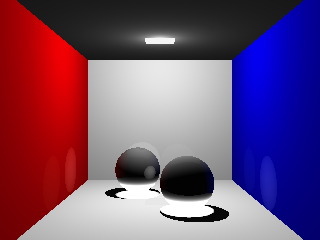
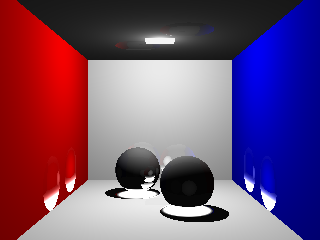
Working on GI

diff --git a/VCG_Raytracer/src/raytracer/Intersection.java b/VCG_Raytracer/src/raytracer/Intersection.java
@@ -58,7 +58,9 @@ public class Intersection {
 
         Matrix4x4 transfMatrix = calculateRandomTransformationMatrix(randomEndDirection, mNormal );
 
-        Vec4 transformedRandomEndDirection = transfMatrix.multVec3( new Vec4(randomEndDirection.x, randomEndDirection.y, randomEndDirection.z, 0f)).normalize();
+        Vec4 transformedRandomEndDirection = transfMatrix.multVec3( new Vec4(randomEndDirection.x, randomEndDirection.y, randomEndDirection.z, 0f));
+
+        transformedRandomEndDirection = transformedRandomEndDirection.normalize();
 
         Ray outRay = new Ray(startPoint, new Vec3(transformedRandomEndDirection.x, transformedRandomEndDirection.y, transformedRandomEndDirection.z), Float.MAX_VALUE);
 

diff --git a/VCG_Raytracer/src/Main.java b/VCG_Raytracer/src/Main.java
@@ -86,7 +86,7 @@ public class Main {
     static int RECURSIONS = 8;
     static int ANTI_ALIASING = Raytracer.ANTI_ALIASING_NONE; //Raytracer.ANTI_ALIASING_MEDIUM;
     static boolean USE_SOFT_SHADOWS = false;
-    static int GI_LEVEL = 1;
+    static int GI_LEVEL = 2;
     static int GI_SAMPLES = 20;
 
     /** DEBUG **/

diff --git a/VCG_Raytracer/src/raytracer/Raytracer.java b/VCG_Raytracer/src/raytracer/Raytracer.java
@@ -143,8 +143,6 @@ public class Raytracer {
             }
             if ( intersection.getShape().getMaterial().isGiOn() ){
 
-
-
                 //Log.print(this, "GI creation");
                 outColor = outColor.add(this.calculateGiIntersections(giLevelCounter, RgbColor.BLACK, intersection));
 
